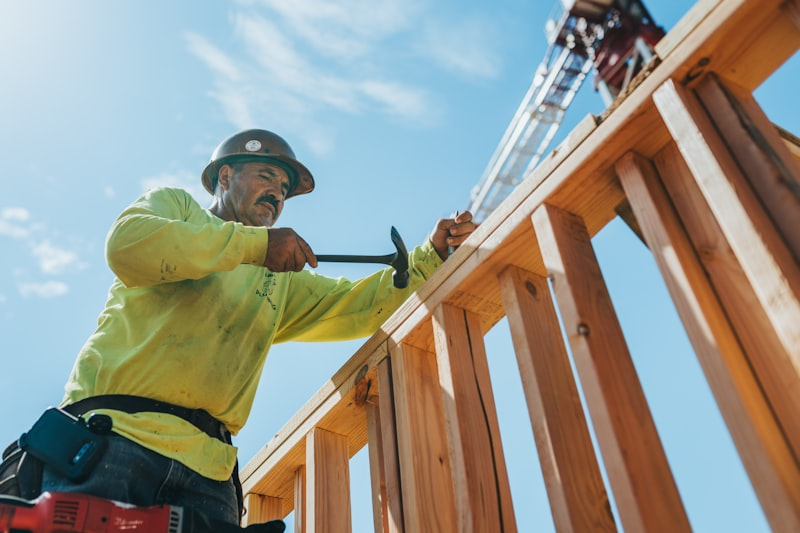
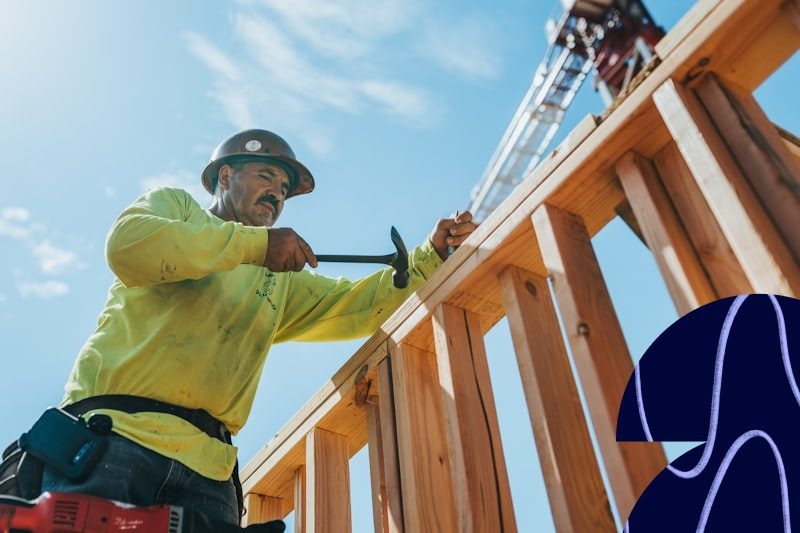
Restyler les onglets du hero et intégrer les visuels décorés
- Onglets de recherche en pastilles indépendantes bordées (fond navy,
  active = pastille blanche, survol discret) au lieu du bloc segmenté
- Barre de recherche élargie (40 -> 46 rem), coins du bouton en rect arrondi
- Remplacement des 4 photos (emplois + services) par les versions
  retravaillées fournies (formes graphiques d'habillage)

Changed region(s): [[0.75, 0.5403, 1.0, 1.0]]

diff --git a/accueil/static/accueil/css/main.css b/accueil/static/accueil/css/main.css
@@ -663,36 +663,32 @@ p {
 /* Tabbed search --------------------------------------------------------- */
 
 .recherche {
-  max-width: 40rem;
+  max-width: 46rem;
   margin: 0 auto;
 }
 
-/* Segmented control: one joined track, the active segment is a white pill. */
+/* Standalone pill tabs sitting directly on the hero background (not a track). */
 .recherche__onglets {
   display: flex;
+  flex-wrap: wrap;
+  gap: 0.625rem;
   margin-bottom: 1.25rem;
-  padding: 0.25rem;
-  background: rgba(255, 255, 255, 0.1);
-  border: 1px solid rgba(255, 255, 255, 0.18);
-  border-radius: 999px;
 }
 
 .recherche__onglet {
-  flex: 1;
-  min-width: 0;
   display: inline-flex;
   align-items: center;
   justify-content: center;
   gap: 0.4rem;
-  padding: 0.5rem 0.25rem;
-  border: 0;
+  padding: 0.5rem 0.75rem;
+  border: 1px solid rgba(255, 255, 255, 0.25);
   border-radius: 999px;
   background: transparent;
   color: rgba(255, 255, 255, 0.82);
   font: 500 0.6875rem var(--font-sans);
   white-space: nowrap;
   cursor: pointer;
-  transition: color 0.2s ease, background 0.2s ease;
+  transition: color 0.2s ease, background 0.2s ease, border-color 0.2s ease;
 }
 
 /* Short labels + no icons on small screens; full labels + icons from tablet up. */
@@ -701,16 +697,23 @@ p {
   display: none;
 }
 
+.recherche__onglet:not(.est-actif):hover {
+  border-color: rgba(255, 255, 255, 0.55);
+  background: rgba(255, 255, 255, 0.08);
+  color: #fff;
+}
+
 .recherche__onglet.est-actif {
   background: #fff;
   color: var(--primary);
+  border-color: #fff;
   font-weight: 700;
   box-shadow: 0 1px 3px rgba(0, 0, 0, 0.18);
 }
 
 @media (min-width: 40rem) {
   .recherche__onglet {
-    padding: 0.5rem 0.875rem;
+    padding: 0.55rem 1.1rem;
     font-size: 0.875rem;
   }
 
@@ -936,7 +939,7 @@ p {
 
   .recherche__bouton {
     flex: none;
-    border-radius: 999px;
+    border-radius: 0.85rem;
   }
 }
 
